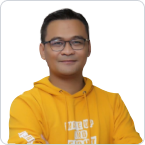
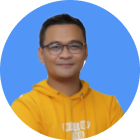
feat: add sections our team

diff --git a/src/components/Team/index.tsx b/src/components/Team/index.tsx
@@ -1,0 +1,71 @@
+import { Fragment } from 'react'
+import { Element } from 'react-scroll'
+import dataFounder from '@jsons/founder.json'
+import dataTeam from '@jsons/team.json'
+import Button from '@/components/Buttons'
+import FounderCard from '@/components/Card/Founder'
+import TeamCard from '@/components/Card/Team'
+import { Container } from '@/components/Layouts'
+
+export const Team: React.FC = () => {
+  return (
+    <>
+      <Element name="team" className="element">
+        <Container tag={'div'} tw="px-5 md:px-14">
+          <div tw="flex flex-col items-center justify-between w-full text-center">
+            <h1 tw="mt-20 mb-16 text-3xl font-bold lg:text-4xl">
+              Our Team<span tw="text-secondary">_</span>
+            </h1>
+
+            <div className="grid grid-cols-1 gap-4 mb-24 md:grid-cols-2 lg:grid-cols-3">
+              {dataTeam.map((data: any, i: number) => (
+                <Fragment key={i}>
+                  <TeamCard key={i} image={data?.image} name={data?.name} about={data?.about} link={data?.link} />
+                </Fragment>
+              ))}
+
+              <div tw="place-items-center p-4 hidden md:flex w-full h-[220px] cursor-default transition ease-in-out delay-100 focus:outline-none hover:scale-110 bg-blue-400 duration-200 rounded-xl">
+                <div className="p-4 text-xl font-medium text-left text-white">
+                  <p tw="w-11/12">Accelerate good things with technology</p>
+                  <Button
+                    text="Meet entire team"
+                    variant="secondary"
+                    tw="rounded-md px-5 mt-12 font-medium text-base py-2 text-opacity-70"
+                    external={true}
+                    url="https://wa.link/4l62ek"
+                  />
+                </div>
+              </div>
+
+              {dataFounder.map((data: any, i: number) => (
+                <Fragment key={i}>
+                  <FounderCard
+                    key={i}
+                    image={data?.image}
+                    name={data?.name}
+                    about={data?.about}
+                    desc={data?.desc}
+                    link={data?.link}
+                  />
+                </Fragment>
+              ))}
+
+              <div tw="place-items-center p-4 flex md:hidden w-full h-[220px] cursor-default transition ease-in-out delay-100 focus:outline-none hover:scale-110 bg-blue-400 duration-200 rounded-xl">
+                <div className="p-4 text-xl font-medium text-left text-white">
+                  <p tw="w-11/12">Accelerate good things with technology</p>
+                  <Button
+                    text="Meet entire team"
+                    variant="secondary"
+                    tw="rounded-md px-5 mt-12 font-medium text-base py-2 text-opacity-70"
+                    external={true}
+                    url="https://wa.link/4l62ek"
+                  />
+                </div>
+              </div>
+            </div>
+          </div>
+        </Container>
+      </Element>
+    </>
+  )
+}

diff --git a/src/components/Card/Founder/index.tsx b/src/components/Card/Founder/index.tsx
@@ -1,0 +1,70 @@
+import Image from 'next/image'
+import { FC, useEffect, useState } from 'react'
+import tw, { styled } from 'twin.macro'
+
+const ContentFounder = styled.div`
+  ${tw`place-items-center items-center pl-5 my-auto flex w-full h-[170px] md:h-[220px] cursor-default transition ease-in-out delay-100 focus:outline-none hover:scale-110 hover:bg-primary hover:bg-opacity-10 duration-200 bg-gray-50 rounded-xl`}
+`
+const Title = styled.div`
+  ${tw`flex-1 pr-2 text-xl font-bold text-left text-gray-900 capitalize pl-7`}
+`
+const SubTitle = styled.div`
+  ${tw`pb-5 text-base font-medium text-gray-500 md:pb-7`}
+`
+
+interface FounderProps {
+  image: string
+  name: string
+  about: string
+  desc: string
+  link: string
+}
+
+const Founder: FC<FounderProps> = ({ image, name, about, desc, link }) => {
+  const [isDesktop, setIsDesktop] = useState(false)
+
+  useEffect(() => {
+    const handleResize = () => {
+      if (window.innerWidth > 1275) {
+        setIsDesktop(true)
+      } else {
+        setIsDesktop(false)
+      }
+    }
+    handleResize()
+    window.addEventListener('resize', handleResize)
+    return () => window.removeEventListener('resize', handleResize)
+  }, [])
+
+  return (
+    <ContentFounder>
+      <Image
+        unoptimized={true}
+        src={image}
+        layout="fixed"
+        width={isDesktop ? 140 : 100}
+        height={isDesktop ? 140 : 100}
+        objectFit="contain"
+      />
+      <Title>
+        {name}
+        <SubTitle>
+          {about} <br /> {desc}
+        </SubTitle>
+
+        <a href={link} target="_blank">
+          <Image
+            tw="cursor-pointer"
+            unoptimized={true}
+            src="/assets/icons/linkedin.png"
+            layout="fixed"
+            width={30}
+            height={30}
+          />
+        </a>
+      </Title>
+    </ContentFounder>
+  )
+}
+
+export default Founder

diff --git a/src/components/Card/Team/index.tsx b/src/components/Card/Team/index.tsx
@@ -1,0 +1,66 @@
+import Image from 'next/image'
+import tw, { styled } from 'twin.macro'
+import { FC, useEffect, useState } from 'react'
+
+const ContentTeam = styled.div`
+  ${tw`pl-5 flex w-full h-[170px] md:h-[220px] cursor-default transition ease-in-out delay-100 focus:outline-none hover:scale-110 hover:bg-primary hover:bg-opacity-10 duration-200 bg-gray-50 rounded-xl place-items-center`}
+`
+const Title = styled.div`
+  ${tw`flex-1 text-xl font-bold text-left text-gray-900 capitalize pl-7`}
+`
+const SubTitle = styled.div`
+  ${tw`pb-5 text-base font-medium text-gray-500 md:pb-7`}
+`
+
+interface TeamProps {
+  image: string
+  name: string
+  about: string
+  link: string
+}
+
+const Team: FC<TeamProps> = ({ image, name, about, link }) => {
+  const [isDesktop, setIsDesktop] = useState(false)
+
+  useEffect(() => {
+    const handleResize = () => {
+      if (window.innerWidth > 1275) {
+        setIsDesktop(true)
+      } else {
+        setIsDesktop(false)
+      }
+    }
+    handleResize()
+    window.addEventListener('resize', handleResize)
+    return () => window.removeEventListener('resize', handleResize)
+  }, [])
+  return (
+    <ContentTeam>
+      <Image
+        unoptimized={true}
+        src={image}
+        layout="fixed"
+        width={isDesktop ? 140 : 100}
+        height={isDesktop ? 140 : 100}
+        objectFit="contain"
+      />
+      <Title>
+        {name}
+        <SubTitle>{about}</SubTitle>
+
+        <a href={link} target="_blank">
+          <Image
+            tw="cursor-pointer"
+            unoptimized={true}
+            src="/assets/icons/linkedin.png"
+            layout="fixed"
+            width={30}
+            height={30}
+          />
+        </a>
+      </Title>
+    </ContentTeam>
+  )
+}
+
+export default Team

diff --git a/src/pages/index.tsx b/src/pages/index.tsx
@@ -4,7 +4,7 @@ import { Service } from '@/components/Service'
 import { Formulir } from '@/components/Formulir'
 import { Technology } from '@/components/Technology'
 import { Client } from '@/components/Client'
-import { Founder } from '@/components/Founder'
+import { Team } from '@/components/Team'
 import { Contact } from '@/components/Contact'
 import { Footer } from '@/components/Footer'
 
@@ -17,7 +17,7 @@ const LandingPage: React.FC = () => {
       <Formulir />
       <Technology />
       <Client />
-      <Founder />
+      <Team />
       <Contact />
       <Footer />
     </>
